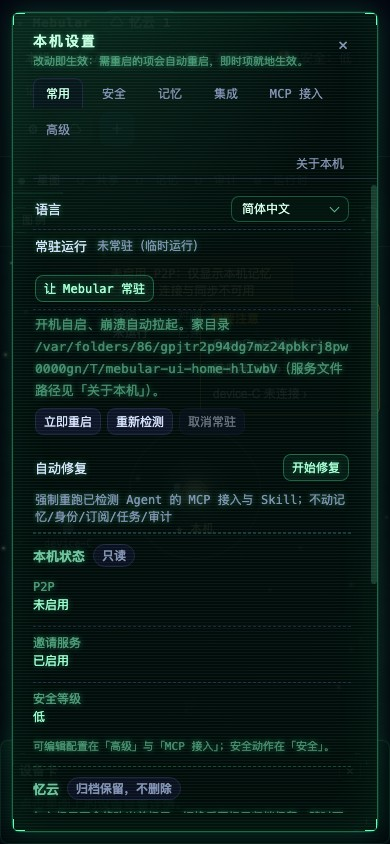
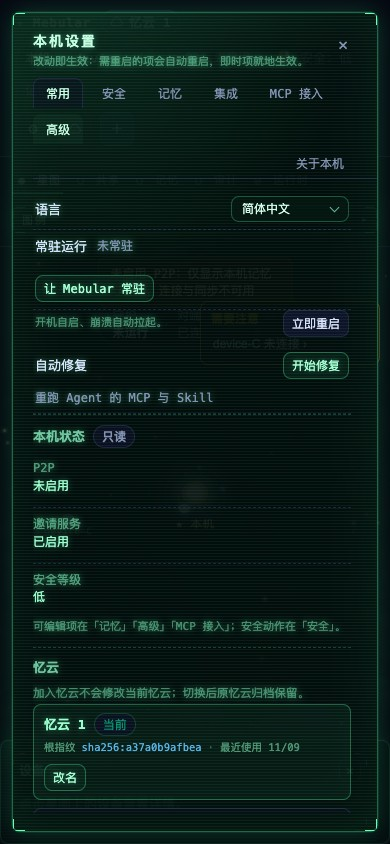
refactor(console): compact common settings rows

diff --git a/packages/console/console.js b/packages/console/console.js
@@ -6722,9 +6722,15 @@ function cloudRowHtml(entry) {
   const fingerprint = entry.masterFingerprint
     ? `<code>${escapeHtml(entry.masterFingerprint)}</code>`
     : `<span class="kv-empty">${escapeHtml(t('settings.cloud.row.unknownRepair'))}</span>`;
-  const lastUsed = entry.lastUsedAt ? formatTime(entry.lastUsedAt) : '—';
+  const lastUsed = entry.lastUsedAt ? formatShortDate(entry.lastUsedAt) : '—';
+  const lastUsedFull = entry.lastUsedAt ? formatTime(entry.lastUsedAt) : '—';
+  const fingerprintText = entry.masterFingerprint ?? t('settings.cloud.row.unknownRepair');
+  const metaTitle = `${t('settings.cloud.row.rootFingerprint', { fingerprint: fingerprintText })} · ${t('settings.cloud.row.lastUsed', { time: lastUsedFull })}`;
   const conflictBadges = duplicate
     ? `<span class="badge badge-warn cloud-dup-badge">${escapeHtml(t('settings.cloud.row.duplicate'))}</span>${suggested ? `<span class="badge badge-warn cloud-suggest-badge">${escapeHtml(t('settings.cloud.row.suggestRename'))}</span>` : ''}`
+    : '';
+  const nameTitle = entry.nameUpdatedAt
+    ? ` title="${escapeHtml(t('settings.cloud.row.nameUpdated', { time: formatTime(entry.nameUpdatedAt) }))}"`
     : '';
   // 第一版：只有当前忆云能写网络级名字；归档项提示切换后再改。
   const renameUi = current
@@ -6733,22 +6739,19 @@ function cloudRowHtml(entry) {
            value="${escapeHtml(state.cloudRename?.name ?? entry.name)}" aria-label="${escapeHtml(t('settings.cloud.rename.aria'))}" />
          <button class="btn btn-small btn-crt" data-cloud-rename-save type="button" ${cloudRenameBusy ? 'disabled' : ''}>${escapeHtml(t('settings.cloud.rename.save'))}</button>
          <button class="btn btn-small" data-cloud-rename-cancel type="button">${escapeHtml(t('common.cancel'))}</button>`
-      : `<button class="btn btn-small btn-crt" data-cloud-rename="${id}" type="button">${escapeHtml(t('settings.cloud.rename.action'))}</button>`)
-    : `<button class="btn btn-small btn-crt btn-crt-danger" data-cloud-switch="${id}" type="button">${escapeHtml(t('settings.cloud.row.switch'))}</button>
-       <span class="cloud-rename-hint muted">${escapeHtml(t('settings.cloud.row.switchHint'))}</span>`;
-  return `<div class="cloud-row${current ? ' is-current' : ''}${duplicate ? ' is-duplicate' : ''}" data-cloud-row="${id}">
+      : `<button class="btn btn-small btn-crt" data-cloud-rename="${id}" type="button" title="${escapeHtml(t('settings.cloud.row.renameNote'))}">${escapeHtml(t('settings.cloud.rename.action'))}</button>`)
+    : `<button class="btn btn-small btn-crt" data-cloud-switch="${id}" type="button" title="${escapeHtml(t('settings.cloud.row.switchHint'))}">${escapeHtml(t('settings.cloud.row.switch'))}</button>
+       <span class="sr-only">${escapeHtml(t('settings.cloud.row.switchHint'))}</span>`;
+  return `<div class="cloud-row${current ? ' is-current' : ''}${duplicate ? ' is-duplicate' : ''}${renaming ? ' is-renaming' : ''}" data-cloud-row="${id}">
     <div class="cloud-main">
-      <span class="cloud-name">${escapeHtml(entry.name)}</span>
-      <span class="badge ${current ? 'badge-ok' : 'badge-muted'}">${escapeHtml(t(current ? 'settings.cloud.row.current' : 'settings.cloud.row.archived'))}</span>
-      ${conflictBadges}
-    </div>
-    <div class="cloud-meta">
-      <span>${t('settings.cloud.row.rootFingerprint', { fingerprint })}</span>
-      <span>${escapeHtml(t('settings.cloud.row.lastUsed', { time: lastUsed }))}</span>
-      ${entry.nameUpdatedAt ? `<span>${escapeHtml(t('settings.cloud.row.nameUpdated', { time: formatTime(entry.nameUpdatedAt) }))}</span>` : ''}
+      <div class="cloud-title">
+        <span class="cloud-name"${nameTitle}>${escapeHtml(entry.name)}</span>
+        <span class="badge ${current ? 'badge-ok' : 'badge-muted'}">${escapeHtml(t(current ? 'settings.cloud.row.current' : 'settings.cloud.row.archived'))}</span>
+        ${conflictBadges}
+      </div>
+      <p class="cloud-sub" title="${escapeHtml(metaTitle)}">${t('settings.cloud.row.rootFingerprint', { fingerprint })}<span class="cloud-sep" aria-hidden="true">·</span>${escapeHtml(t('settings.cloud.row.lastUsed', { time: lastUsed }))}</p>
     </div>
     <div class="cloud-actions">${renameUi}</div>
-    ${current ? `<p class="cfg-help muted cloud-rename-note">${escapeHtml(t('settings.cloud.row.renameNote'))}</p>` : ''}
     ${renaming && state.cloudRenameError ? `<p class="crt-warn cloud-rename-error" role="alert">${escapeHtml(state.cloudRenameError)}</p>` : ''}
   </div>`;
 }
@@ -6760,7 +6763,6 @@ function cloudCardHtml() {
     const rows = (state.clouds.profiles ?? []).map(cloudRowHtml).join('');
     body = `${state.clouds.warning ? `<p class="crt-warn">${escapeHtml(localizeReasonText(state.clouds.warning, 'errors.unknown'))}</p>` : ''}
       <div class="cloud-rows">${rows || `<p class="muted">${escapeHtml(t('settings.cloud.empty'))}</p>`}</div>
-      <p class="cfg-help muted">${escapeHtml(t('settings.cloud.note'))}</p>
       ${state.clouds.nameConflicts?.currentDuplicate
         ? `<p class="crt-warn">${escapeHtml(t('settings.cloud.duplicate'))}</p>`
         : ''}`;
@@ -6771,9 +6773,10 @@ function cloudCardHtml() {
     body = `<p class="muted">${escapeHtml(t('settings.cloud.loading'))}</p>`;
   }
   return `<section id="settings-cloud-card" class="settings-section cloud-card" data-settings-clouds tabindex="-1">
-    <h3>${escapeHtml(t('settings.cloud.title'))} <span class="badge badge-muted">${escapeHtml(t('settings.cloud.keepArchived'))}</span></h3>
+    <h3>${escapeHtml(t('settings.cloud.title'))}</h3>
     <p class="muted cloud-intro">${escapeHtml(t('settings.cloud.intro'))}</p>
     ${body}
+    <p class="settings-section-foot muted">${escapeHtml(t('settings.cloud.note'))} ${escapeHtml(t('settings.cloud.keepArchived'))}。</p>
   </section>`;
 }
 
@@ -7380,6 +7383,16 @@ async function wizardNext() {
 function formatTime(ts) {
   if (!ts) return '—';
   return formatLocaleDateTime(ts);
+}
+
+/** 忆云行内短日期（月/日）；完整时间在 title。 */
+function formatShortDate(ts) {
+  if (!ts) return '—';
+  try {
+    return new Intl.DateTimeFormat(getLocale(), { month: '2-digit', day: '2-digit' }).format(new Date(ts));
+  } catch {
+    return formatLocaleDate(ts);
+  }
 }
 
 function escapeHtml(value) {

diff --git a/packages/console/console.css b/packages/console/console.css
@@ -684,28 +684,46 @@ body.modal-open { overflow: hidden; }
 .settings-diag-block:first-child { border-top: 0; padding-top: 0; }
 .settings-diag-block h4 { margin: 0 0 6px; font-size: 12px; display: flex; align-items: center; gap: 6px; }
 .cfg-diag-path { margin: 0 0 6px; font-size: 11px; }
-/* E2-A2：忆云卡（设置 · 常用） */
+/* 视觉隐藏但保留给读屏/断言（如归档切换提示） */
+.sr-only {
+  position: absolute !important; width: 1px !important; height: 1px !important;
+  padding: 0 !important; margin: -1px !important; overflow: hidden !important;
+  clip: rect(0, 0, 0, 0) !important; clip-path: inset(50%) !important;
+  white-space: nowrap !important; border: 0 !important;
+}
+/* E2-A2：忆云卡（设置 · 常用）
+   U-4 收口：行固定 58px 两行（名称/状态 + 指纹/最近使用），动作一列；
+   名称更新/改名说明不再逐行铺开，改由 title / section foot 承担。 */
 .cloud-card:focus-visible { outline: 2px solid var(--accent); outline-offset: 3px; }
-.cloud-intro { margin: 0 0 8px; font-size: 11.5px; }
+.cloud-intro { margin: 0 0 8px; font-size: 11.5px; line-height: 1.55; }
 .cloud-rows { display: grid; gap: 8px; }
 .cloud-row {
   display: grid;
   grid-template-columns: minmax(0, 1fr) auto;
-  gap: 4px 12px;
+  gap: 8px 12px;
   align-items: center;
-  padding: 9px 10px;
+  min-height: 58px;
+  padding: 8px 10px;
   border: 1px solid var(--border);
   border-radius: 8px;
   background: rgba(8, 14, 28, 0.45);
   min-width: 0;
 }
 .cloud-row.is-current { border-color: rgba(80, 255, 170, 0.32); background: rgba(80, 255, 170, 0.05); }
-.cloud-main { display: flex; align-items: center; gap: 8px; flex-wrap: wrap; min-width: 0; }
-.cloud-name { font-weight: 600; overflow-wrap: anywhere; }
 .cloud-row.is-duplicate { border-color: rgba(255, 210, 122, 0.45); }
+.cloud-main { display: grid; gap: 3px; min-width: 0; }
+.cloud-title { display: flex; align-items: center; gap: 8px; flex-wrap: wrap; min-width: 0; }
+.cloud-name { font-weight: 600; min-width: 0; overflow: hidden; text-overflow: ellipsis; white-space: nowrap; }
+.cloud-sub {
+  display: flex; align-items: center; gap: 6px; min-width: 0; margin: 0;
+  font-size: 10.5px; line-height: 1.4; color: var(--crt-dim); text-shadow: none;
+  white-space: nowrap; overflow: hidden; text-overflow: ellipsis;
+}
+/* .modal-box p 默认 pre-wrap（帮助文本换行）；行内元信息需要单行省略 */
+.settings-scroll .cloud-sub { white-space: nowrap; }
+.cloud-sub code { color: var(--accent); font: inherit; }
+.cloud-sep { color: var(--crt-faint); }
 .cloud-dup-badge, .cloud-suggest-badge { white-space: nowrap; }
-.cloud-rename-hint { font-size: 11px; }
-.cloud-rename-note { grid-column: 1 / -1; margin: 0; font-size: 11px; }
 /* 顶栏忆云徽章：当前忆云被判定重名时的警告点 */
 .cloud-warning-dot {
   width: 7px; height: 7px; border-radius: 50%;
@@ -713,10 +731,10 @@ body.modal-open { overflow: hidden; }
   box-shadow: 0 0 0 2px rgba(255, 210, 122, 0.18);
   flex: 0 0 auto;
 }
-.cloud-meta { grid-column: 1; display: flex; gap: 6px 14px; flex-wrap: wrap; font-size: 11px; color: var(--muted); min-width: 0; }
-.cloud-meta code { color: var(--accent); overflow-wrap: anywhere; }
-.cloud-actions { grid-column: 2; grid-row: 1 / span 2; display: flex; align-items: center; justify-content: flex-end; gap: 6px; flex-wrap: wrap; min-width: 0; }
-.cloud-actions .cloud-rename-input { width: 150px; min-width: 0; }
+.cloud-actions { display: flex; align-items: center; justify-content: flex-end; gap: 6px; flex-wrap: wrap; min-width: 0; }
+.cloud-actions .cloud-rename-input { flex: 1 1 160px; width: auto; min-width: 0; }
+.cloud-row.is-renaming { grid-template-columns: minmax(0, 1fr); align-items: start; }
+.cloud-row.is-renaming .cloud-actions { grid-column: 1; justify-content: flex-start; }
 .cloud-rename-error { grid-column: 1 / -1; margin: 2px 0 0; font-size: 11px; }
 .cloud-unavailable { margin: 0 0 4px; font-size: 12px; color: #ffd27a; line-height: 1.6; }
 .cloud-inspect { margin: 8px 0 0; font-size: 11.5px; line-height: 1.7; min-height: 0; }
@@ -764,6 +782,7 @@ body.modal-open { overflow: hidden; }
   .cloud-row { grid-template-columns: minmax(0, 1fr); }
   .cloud-actions { grid-column: 1; grid-row: auto; justify-content: flex-start; }
   .cloud-actions .cloud-rename-input { flex: 1 1 100%; width: 100%; }
+  .settings-scroll .cloud-name, .settings-scroll .cloud-sub { white-space: normal; overflow: visible; text-overflow: clip; }
 }
 .settings-kv {
   display: grid;
@@ -1891,6 +1910,14 @@ body.modal-open { overflow: hidden; }
 .asst-detail-actions { display: flex; flex-wrap: wrap; gap: 6px; margin-top: 6px; }
 .asst-output { margin-top: 4px; }
 .settings-resident { margin-bottom: 4px; }
+/* U-4 常用收口：常驻行只保留一行状态 + 一行说明 + 动作组；家目录移入「关于本机」 */
+.settings-resident .asst-service-xp {
+  display: flex; align-items: center; justify-content: space-between;
+  flex-wrap: wrap; gap: 4px 8px; padding: 0 2px 4px;
+}
+.settings-resident .asst-service-note { margin: 0; font-size: 11px; line-height: 1.5; }
+.settings-resident .asst-detail-actions { margin-top: 0; }
+.settings-resident #service-msg { flex: 1 1 100%; margin: 4px 0 0; }
 /* U-4 收口：640 外框 − 160px 竖轨后内容列约 420px；英文「Not resident (temporary)」等长状态
    会把动作按钮挤出可视区。常驻行与重启向导/自动修行同一策略：名称不占固定宽、说明可收缩换行、
    动作按钮永不收缩；≤760 的整行换行规则继续生效。 */

diff --git a/packages/console/assistants.js b/packages/console/assistants.js
@@ -358,15 +358,12 @@ export function serviceRowHtml(service, serviceMsg = '') {
         : `<button class="btn btn-small btn-crt" type="button" data-svc-action="install">${esc(tr('settings.service.install', '让 Mebular 常驻'))}</button>`}
     </div>
     <div class="asst-xp asst-service-xp">
-      <p class="muted">${tr('settings.service.note', '开机自启、崩溃自动拉起。家目录 {home}（服务文件路径见「关于本机」）。', {
-        home: `<code>${esc(service.home ?? '—')}</code>`,
-      })}</p>
+      <p class="muted asst-service-note">${esc(tr('settings.service.note', '开机自启、崩溃自动拉起。'))}</p>
       <div class="asst-detail-actions">
         <button class="btn btn-small" type="button" data-svc-action="restart">${esc(tr('settings.service.restart', '立即重启'))}</button>
-        <button class="btn btn-small" type="button" data-svc-action="recheck">${esc(tr('settings.service.recheck', '重新检测'))}</button>
-        <button class="btn btn-small" type="button" data-svc-action="uninstall" ${registered ? '' : 'disabled'}>${esc(tr('settings.service.uninstall', '取消常驻'))}</button>
+        ${registered ? `<button class="btn btn-small" type="button" data-svc-action="uninstall">${esc(tr('settings.service.uninstall', '取消常驻'))}</button>` : ''}
       </div>
-      <p class="asst-line" id="service-msg">${esc(serviceMsg)}</p>
+      ${serviceMsg ? `<p class="asst-line" id="service-msg">${esc(serviceMsg)}</p>` : ''}
     </div>`;
 }
 
